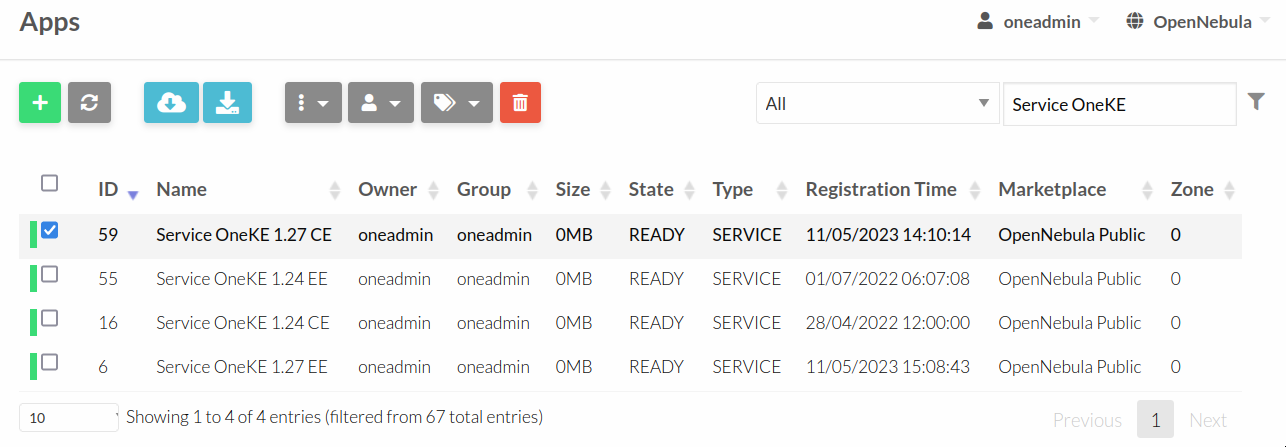
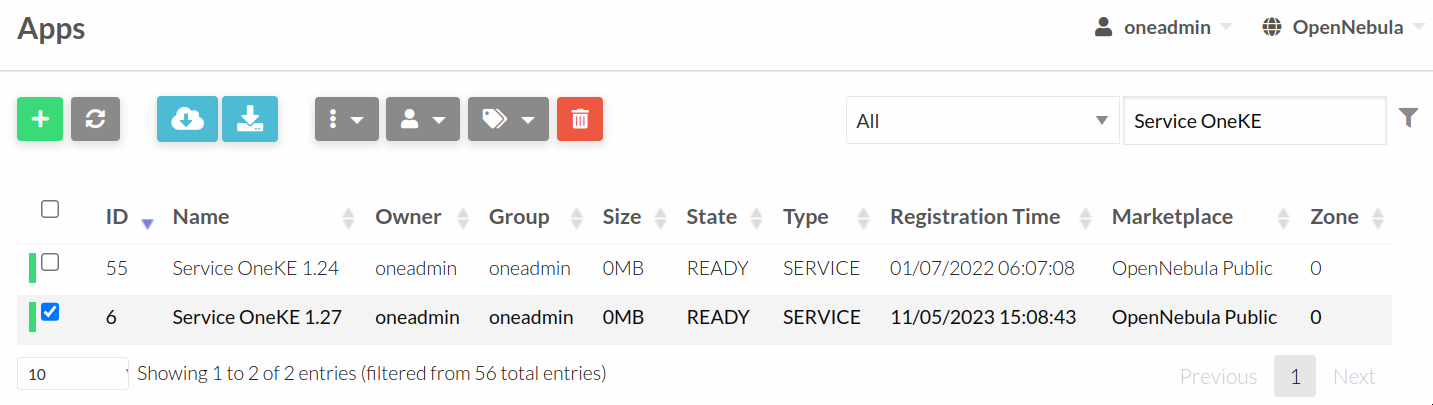
F OpenNebula/one#6253: Remove OneKE CE / Rename OneKE EE (#2640)

diff --git a/source/marketplace/appliances/oneke.rst b/source/marketplace/appliances/oneke.rst
@@ -16,25 +16,23 @@ Components
 .. table::
     :widths: 100 50 40
 
-    +-----------------------------+-------------------------------------------------------------------------------------------------------------------+
-    | Component                   | Version                                                                                                           |
-    +=============================+=====================================================================================+=============================+
-    | `Service OneKE 1.27 CE <https://marketplace.opennebula.io/appliance/6a7ba6b7-75ca-444d-bf86-50a7b6f0658e>`_       |                             |
-    +-----------------------------+-------------------------------------------------------------------------------------+                             |
-    | `Service OneKE 1.27 EE <https://marketplace.opennebula.io/appliance/7c82d610-73f1-47d1-a85a-d799e00c631e>`_       |                             |
-    +-----------------------------+-------------------------------------------------------------------------------------+                             |
-    | Ubuntu                      | 22.04 LTS                                                                           | |certified-kubernetes-logo| |
-    +-----------------------------+-------------------------------------------------------------------------------------+                             |
-    | Kubernetes/RKE2             | v1.27.1+rke2r1                                                                      |                             |
-    +-----------------------------+-------------------------------------------------------------------------------------+                             |
-    | Longhorn                    | 1.4.1                                                                               |                             |
-    +-----------------------------+-------------------------------------------------------------------------------------+                             |
-    | MetalLB                     | 0.13.9                                                                              |                             |
-    +-----------------------------+-------------------------------------------------------------------------------------+                             |
-    | Traefik                     | 2.10.0                                                                              |                             |
-    +-----------------------------+-------------------------------------------------------------------------------------+                             |
-    | Contextualization package   | 6.6.0                                                                               |                             |
-    +-----------------------------+-------------------------------------------------------------------------------------+-----------------------------+
+    +-----------------------------+----------------------------------------------------------------------------------------------------------+
+    | Component                   | Version                                                                                                  |
+    +=============================+============================================================================+=============================+
+    | `Service OneKE 1.27 <https://marketplace.opennebula.io/appliance/7c82d610-73f1-47d1-a85a-d799e00c631e>`_ |                             |
+    +-----------------------------+----------------------------------------------------------------------------+                             |
+    | Ubuntu                      | 22.04 LTS                                                                  | |certified-kubernetes-logo| |
+    +-----------------------------+----------------------------------------------------------------------------+                             |
+    | Kubernetes/RKE2             | v1.27.1+rke2r1                                                             |                             |
+    +-----------------------------+----------------------------------------------------------------------------+                             |
+    | Longhorn                    | 1.4.1                                                                      |                             |
+    +-----------------------------+----------------------------------------------------------------------------+                             |
+    | MetalLB                     | 0.13.9                                                                     |                             |
+    +-----------------------------+----------------------------------------------------------------------------+                             |
+    | Traefik                     | 2.10.0                                                                     |                             |
+    +-----------------------------+----------------------------------------------------------------------------+                             |
+    | Contextualization package   | 6.6.1                                                                      |                             |
+    +-----------------------------+----------------------------------------------------------------------------+-----------------------------+
 
 `Changelog <oneke_changelog.html>`_
 
@@ -53,26 +51,24 @@ Architecture Overview
 
 OneKE is available as a Virtual Appliance from the `OpenNebula Public MarketPlace <https://marketplace.opennebula.io/appliance>`_.
 
-OneKE comes in two flavors: **CE** (Community Edition) and **EE** (Enterprise Edition). Currently, the only difference between **CE** and **EE** versions is that **EE** version is a fully airgapped installation and can be installed in isolated VNETs.
-
-Let's take a closer look at the **OneKE 1.27 CE** MarketPlace app:
+Let's take a closer look at the **OneKE 1.27** MarketPlace app:
 
 .. prompt:: bash $ auto
 
-    $ onemarketapp list -f NAME~'OneKE 1.27 CE' -l NAME --no-header
-    OneKE 1.27 CE Storage
-    OneKE 1.27 CE OS disk
-    Service OneKE 1.27 CE
-    OneKE 1.27 CE
-    OneKE 1.27 CE VNF
-    OneKE 1.27 CE Storage disk
+    $ onemarketapp list -f NAME~'OneKE 1.27' -l NAME --no-header
+    OneKE 1.27 Storage
+    OneKE 1.27 OS disk
+    Service OneKE 1.27
+    OneKE 1.27
+    OneKE 1.27 VNF
+    OneKE 1.27 Storage disk
 
-A specific version of OneKE/CE consists of:
+A specific version of OneKE consists of:
 
-- A single OneFlow template ``Service OneKE .. CE`` used to instantiate a cluster.
-- VM templates ``OneKE .. CE VNF``, ``OneKE .. CE``, ``OneKE .. CE Storage`` used to instantiate VMs.
-- Disk images ``OneKE .. CE OS disk``, ``OneKE .. CE Storage disk`` \
-  (all Kubernetes nodes are cloned from the ``OneKE .. CE OS disk`` image).
+- A single OneFlow template ``Service OneKE ..`` used to instantiate a cluster.
+- VM templates ``OneKE .. VNF``, ``OneKE ..``, ``OneKE .. Storage`` used to instantiate VMs.
+- Disk images ``OneKE .. OS disk``, ``OneKE .. Storage disk`` \
+  (all Kubernetes nodes are cloned from the ``OneKE .. OS disk`` image).
 
 .. note::
 
@@ -101,7 +97,7 @@ You can check the roles defined in the service template by using the following c
 
 .. prompt:: bash $ auto
 
-    $ oneflow-template show -j 'Service OneKE 1.27 CE' | jq -r '.DOCUMENT.TEMPLATE.BODY.roles[].name'
+    $ oneflow-template show -j 'Service OneKE 1.27' | jq -r '.DOCUMENT.TEMPLATE.BODY.roles[].name'
     vnf
     master
     worker
@@ -182,10 +178,6 @@ Networking
 
 OneKE's OneFlow Service requires two networks: a **public** and a **private** VNET.
 These two VNETs can be, for example, just a simple `bridged networks <https://docs.opennebula.io/stable/open_cluster_deployment/networking_setup/bridged.html>`_.
-
-.. note::
-  - In case of the **CE** flavor the **public** VNET must have access to the public Internet to allow Kubernetes to download the in-cluster components, i.e. ``Longhorn``, ``Traefik``, ``MetalLB``, and other supplementary docker images when required.
-  - In case of the **CE** flavor the **private** VNET must have the ``DNS`` context parameter defined, for example ``1.1.1.1``, ``8.8.8.8``, or any other DNS server/proxy capable of resolving public domains.
 
 Let's assume the following:
 
@@ -471,11 +463,11 @@ In this section we focus on a deployment of OneKE using CLI commands. For an eas
 Importing the OneKE Virtual Appliance
 -------------------------------------
 
-Let's run the following command to import in the OpenNebula Cloud the whole set of resources corresponding to the OneKE Virtual Appliance (CE flavor). An image datastore must be specified for storing the Virtual Appliance images.
+Let's run the following command to import in the OpenNebula Cloud the whole set of resources corresponding to the OneKE Virtual Appliance. An image datastore must be specified for storing the Virtual Appliance images.
 
 .. prompt:: bash $ auto
 
-    $ onemarketapp export 'Service OneKE 1.27 CE' 'Service OneKE 1.27 CE' --datastore 1
+    $ onemarketapp export 'Service OneKE 1.27' 'Service OneKE 1.27' --datastore 1
     IMAGE
         ID: 202
         ID: 203
@@ -526,7 +518,7 @@ Once the OneKE Virtual Appliance has been imported, a new cluster can be created
         }
     }
     EOF
-    $ oneflow-template instantiate 'Service OneKE 1.27 CE' /tmp/OneKE-instantiate
+    $ oneflow-template instantiate 'Service OneKE 1.27' /tmp/OneKE-instantiate
     ID: 105
 
 K8s cluster creation can take some minutes. The cluster is available once the OneFlow service is in RUNNING state
@@ -665,7 +657,7 @@ Let's assume that ``epsilon`` and ``omicron`` are hosts we want to use to deploy
 .. prompt:: bash $ auto
 
     $ cat >/tmp/OneKE-vmgroup <<'EOF'
-    NAME = "Service OneKE 1.27 CE"
+    NAME = "Service OneKE 1.27"
     ROLE = [
         NAME         = "vnf",
         HOST_AFFINED = "epsilon,omicron",
@@ -697,7 +689,7 @@ Now, let's modify the OneKE OneFlow Service Template:
 
 .. prompt:: bash $ auto
 
-    $ oneflow-template show 'Service OneKE 1.27 CE' --json | >/tmp/OneKE-update.json jq -r --arg vmgroup 'Service OneKE 1.27 CE' -f /dev/fd/3 3<<'EOF'
+    $ oneflow-template show 'Service OneKE 1.27' --json | >/tmp/OneKE-update.json jq -r --arg vmgroup 'Service OneKE 1.27' -f /dev/fd/3 3<<'EOF'
     .DOCUMENT.TEMPLATE.BODY | del(.registration_time) | . += {
       roles: .roles | map(
         .vm_template_contents = "VMGROUP=[VMGROUP_NAME=\"\($vmgroup)\",ROLE=\"\(.name)\"]\n" + .vm_template_contents
@@ -710,7 +702,7 @@ Content of the update (``/tmp/OneKE-update.json``) will look like this:
 .. code-block:: json
 
     {
-      "name": "Service OneKE 1.27 CE",
+      "name": "Service OneKE 1.27",
       "deployment": "straight",
       "description": "",
       "roles": [
@@ -718,7 +710,7 @@ Content of the update (``/tmp/OneKE-update.json``) will look like this:
           "name": "vnf",
           "cardinality": 1,
           "min_vms": 1,
-          "vm_template_contents": "VMGROUP=[VMGROUP_NAME=\"Service OneKE 1.27 CE\",ROLE=\"vnf\"]\nNIC=[NAME=\"NIC0\",NETWORK_ID=\"$Public\"]\nNIC=[NAME=\"NIC1\",NETWORK_ID=\"$Private\"]\nONEAPP_VROUTER_ETH0_VIP0=\"$ONEAPP_VROUTER_ETH0_VIP0\"\nONEAPP_VROUTER_ETH1_VIP0=\"$ONEAPP_VROUTER_ETH1_VIP0\"\nONEAPP_VNF_NAT4_ENABLED=\"$ONEAPP_VNF_NAT4_ENABLED\"\nONEAPP_VNF_NAT4_INTERFACES_OUT=\"$ONEAPP_VNF_NAT4_INTERFACES_OUT\"\nONEAPP_VNF_ROUTER4_ENABLED=\"$ONEAPP_VNF_ROUTER4_ENABLED\"\nONEAPP_VNF_ROUTER4_INTERFACES=\"$ONEAPP_VNF_ROUTER4_INTERFACES\"\nONEAPP_VNF_HAPROXY_INTERFACES=\"$ONEAPP_VNF_HAPROXY_INTERFACES\"\nONEAPP_VNF_HAPROXY_REFRESH_RATE=\"$ONEAPP_VNF_HAPROXY_REFRESH_RATE\"\nONEAPP_VNF_HAPROXY_CONFIG=\"$ONEAPP_VNF_HAPROXY_CONFIG\"\nONEAPP_VNF_HAPROXY_LB0_IP=\"$ONEAPP_VROUTER_ETH0_VIP0\"\nONEAPP_VNF_HAPROXY_LB0_PORT=\"9345\"\nONEAPP_VNF_HAPROXY_LB1_IP=\"$ONEAPP_VROUTER_ETH0_VIP0\"\nONEAPP_VNF_HAPROXY_LB1_PORT=\"6443\"\nONEAPP_VNF_HAPROXY_LB2_IP=\"$ONEAPP_VROUTER_ETH0_VIP0\"\nONEAPP_VNF_HAPROXY_LB2_PORT=\"$ONEAPP_VNF_HAPROXY_LB2_PORT\"\nONEAPP_VNF_HAPROXY_LB3_IP=\"$ONEAPP_VROUTER_ETH0_VIP0\"\nONEAPP_VNF_HAPROXY_LB3_PORT=\"$ONEAPP_VNF_HAPROXY_LB3_PORT\"\nONEAPP_VNF_KEEPALIVED_VRID=\"$ONEAPP_VNF_KEEPALIVED_VRID\"\n",
+          "vm_template_contents": "VMGROUP=[VMGROUP_NAME=\"Service OneKE 1.27\",ROLE=\"vnf\"]\nNIC=[NAME=\"NIC0\",NETWORK_ID=\"$Public\"]\nNIC=[NAME=\"NIC1\",NETWORK_ID=\"$Private\"]\nONEAPP_VROUTER_ETH0_VIP0=\"$ONEAPP_VROUTER_ETH0_VIP0\"\nONEAPP_VROUTER_ETH1_VIP0=\"$ONEAPP_VROUTER_ETH1_VIP0\"\nONEAPP_VNF_NAT4_ENABLED=\"$ONEAPP_VNF_NAT4_ENABLED\"\nONEAPP_VNF_NAT4_INTERFACES_OUT=\"$ONEAPP_VNF_NAT4_INTERFACES_OUT\"\nONEAPP_VNF_ROUTER4_ENABLED=\"$ONEAPP_VNF_ROUTER4_ENABLED\"\nONEAPP_VNF_ROUTER4_INTERFACES=\"$ONEAPP_VNF_ROUTER4_INTERFACES\"\nONEAPP_VNF_HAPROXY_INTERFACES=\"$ONEAPP_VNF_HAPROXY_INTERFACES\"\nONEAPP_VNF_HAPROXY_REFRESH_RATE=\"$ONEAPP_VNF_HAPROXY_REFRESH_RATE\"\nONEAPP_VNF_HAPROXY_CONFIG=\"$ONEAPP_VNF_HAPROXY_CONFIG\"\nONEAPP_VNF_HAPROXY_LB0_IP=\"$ONEAPP_VROUTER_ETH0_VIP0\"\nONEAPP_VNF_HAPROXY_LB0_PORT=\"9345\"\nONEAPP_VNF_HAPROXY_LB1_IP=\"$ONEAPP_VROUTER_ETH0_VIP0\"\nONEAPP_VNF_HAPROXY_LB1_PORT=\"6443\"\nONEAPP_VNF_HAPROXY_LB2_IP=\"$ONEAPP_VROUTER_ETH0_VIP0\"\nONEAPP_VNF_HAPROXY_LB2_PORT=\"$ONEAPP_VNF_HAPROXY_LB2_PORT\"\nONEAPP_VNF_HAPROXY_LB3_IP=\"$ONEAPP_VROUTER_ETH0_VIP0\"\nONEAPP_VNF_HAPROXY_LB3_PORT=\"$ONEAPP_VNF_HAPROXY_LB3_PORT\"\nONEAPP_VNF_KEEPALIVED_VRID=\"$ONEAPP_VNF_KEEPALIVED_VRID\"\n",
           "elasticity_policies": [],
           "scheduled_policies": [],
           "vm_template": 255
@@ -727,7 +719,7 @@ Content of the update (``/tmp/OneKE-update.json``) will look like this:
           "name": "master",
           "cardinality": 1,
           "min_vms": 1,
-          "vm_template_contents": "VMGROUP=[VMGROUP_NAME=\"Service OneKE 1.27 CE\",ROLE=\"master\"]\nNIC=[NAME=\"NIC0\",NETWORK_ID=\"$Private\"]\nONEAPP_VROUTER_ETH0_VIP0=\"$ONEAPP_VROUTER_ETH0_VIP0\"\nONEAPP_VROUTER_ETH1_VIP0=\"$ONEAPP_VROUTER_ETH1_VIP0\"\nONEAPP_K8S_EXTRA_SANS=\"$ONEAPP_K8S_EXTRA_SANS\"\nONEAPP_K8S_LOADBALANCER_RANGE=\"$ONEAPP_K8S_LOADBALANCER_RANGE\"\nONEAPP_K8S_LOADBALANCER_CONFIG=\"$ONEAPP_K8S_LOADBALANCER_CONFIG\"\n",
+          "vm_template_contents": "VMGROUP=[VMGROUP_NAME=\"Service OneKE 1.27\",ROLE=\"master\"]\nNIC=[NAME=\"NIC0\",NETWORK_ID=\"$Private\"]\nONEAPP_VROUTER_ETH0_VIP0=\"$ONEAPP_VROUTER_ETH0_VIP0\"\nONEAPP_VROUTER_ETH1_VIP0=\"$ONEAPP_VROUTER_ETH1_VIP0\"\nONEAPP_K8S_EXTRA_SANS=\"$ONEAPP_K8S_EXTRA_SANS\"\nONEAPP_K8S_LOADBALANCER_RANGE=\"$ONEAPP_K8S_LOADBALANCER_RANGE\"\nONEAPP_K8S_LOADBALANCER_CONFIG=\"$ONEAPP_K8S_LOADBALANCER_CONFIG\"\n",
           "parents": [
             "vnf"
           ],
@@ -738,7 +730,7 @@ Content of the update (``/tmp/OneKE-update.json``) will look like this:
         {
           "name": "worker",
           "cardinality": 1,
-          "vm_template_contents": "VMGROUP=[VMGROUP_NAME=\"Service OneKE 1.27 CE\",ROLE=\"worker\"]\nNIC=[NAME=\"NIC0\",NETWORK_ID=\"$Private\"]\nONEAPP_VROUTER_ETH0_VIP0=\"$ONEAPP_VROUTER_ETH0_VIP0\"\nONEAPP_VROUTER_ETH1_VIP0=\"$ONEAPP_VROUTER_ETH1_VIP0\"\nONEAPP_VNF_HAPROXY_LB2_IP=\"$ONEAPP_VROUTER_ETH0_VIP0\"\nONEAPP_VNF_HAPROXY_LB2_PORT=\"$ONEAPP_VNF_HAPROXY_LB2_PORT\"\nONEAPP_VNF_HAPROXY_LB3_IP=\"$ONEAPP_VROUTER_ETH0_VIP0\"\nONEAPP_VNF_HAPROXY_LB3_PORT=\"$ONEAPP_VNF_HAPROXY_LB3_PORT\"\n",
+          "vm_template_contents": "VMGROUP=[VMGROUP_NAME=\"Service OneKE 1.27\",ROLE=\"worker\"]\nNIC=[NAME=\"NIC0\",NETWORK_ID=\"$Private\"]\nONEAPP_VROUTER_ETH0_VIP0=\"$ONEAPP_VROUTER_ETH0_VIP0\"\nONEAPP_VROUTER_ETH1_VIP0=\"$ONEAPP_VROUTER_ETH1_VIP0\"\nONEAPP_VNF_HAPROXY_LB2_IP=\"$ONEAPP_VROUTER_ETH0_VIP0\"\nONEAPP_VNF_HAPROXY_LB2_PORT=\"$ONEAPP_VNF_HAPROXY_LB2_PORT\"\nONEAPP_VNF_HAPROXY_LB3_IP=\"$ONEAPP_VROUTER_ETH0_VIP0\"\nONEAPP_VNF_HAPROXY_LB3_PORT=\"$ONEAPP_VNF_HAPROXY_LB3_PORT\"\n",
           "parents": [
             "vnf"
           ],
@@ -750,7 +742,7 @@ Content of the update (``/tmp/OneKE-update.json``) will look like this:
           "name": "storage",
           "cardinality": 1,
           "min_vms": 1,
-          "vm_template_contents": "VMGROUP=[VMGROUP_NAME=\"Service OneKE 1.27 CE\",ROLE=\"storage\"]\nNIC=[NAME=\"NIC0\",NETWORK_ID=\"$Private\"]\nONEAPP_VROUTER_ETH0_VIP0=\"$ONEAPP_VROUTER_ETH0_VIP0\"\nONEAPP_VROUTER_ETH1_VIP0=\"$ONEAPP_VROUTER_ETH1_VIP0\"\nONEAPP_STORAGE_DEVICE=\"$ONEAPP_STORAGE_DEVICE\"\nONEAPP_STORAGE_FILESYSTEM=\"$ONEAPP_STORAGE_FILESYSTEM\"\n",
+          "vm_template_contents": "VMGROUP=[VMGROUP_NAME=\"Service OneKE 1.27\",ROLE=\"storage\"]\nNIC=[NAME=\"NIC0\",NETWORK_ID=\"$Private\"]\nONEAPP_VROUTER_ETH0_VIP0=\"$ONEAPP_VROUTER_ETH0_VIP0\"\nONEAPP_VROUTER_ETH1_VIP0=\"$ONEAPP_VROUTER_ETH1_VIP0\"\nONEAPP_STORAGE_DEVICE=\"$ONEAPP_STORAGE_DEVICE\"\nONEAPP_STORAGE_FILESYSTEM=\"$ONEAPP_STORAGE_FILESYSTEM\"\n",
           "parents": [
             "vnf"
           ],
@@ -793,7 +785,7 @@ Next, let's update the template:
 
 .. prompt:: bash $ auto
 
-    $ oneflow-template update 'Service OneKE 1.27 CE' /tmp/OneKE-update.json
+    $ oneflow-template update 'Service OneKE 1.27' /tmp/OneKE-update.json
 
 
 Operations
@@ -1216,8 +1208,8 @@ four basic steps:
 
     .. prompt:: bash $ auto
 
-        $ oneflow scale 'Service OneKE 1.24 CE' worker 2
-        $ oneflow show 'Service OneKE 1.24 CE'
+        $ oneflow scale 'Service OneKE 1.24' worker 2
+        $ oneflow show 'Service OneKE 1.24'
         ...
         LOG MESSAGES
         06/30/22 21:32 [I] New state: DEPLOYING_NETS

diff --git a/source/quick_start/usage_basics/running_kubernetes_clusters.rst b/source/quick_start/usage_basics/running_kubernetes_clusters.rst
@@ -13,7 +13,7 @@ This guide assumes that you have deployed the OpenNebula front-end following the
 Step 1. Download the OneFlow Service from the Marketplace
 ~~~~~~~~~~~~~~~~~~~~~~~~~~~~~~~~~~~~~~~~~~~~~~~~~~~~~~~~~~
 
-Log in to Sunstone as oneadmin. Go to the ``Storage --> Apps`` tab and search for ``OneKE``. Select the ``Service OneKE 1.27 CE`` and click on the icon with the cloud and the down arrow inside (two positions to the right from the green ``+``).
+Log in to Sunstone as oneadmin. Go to the ``Storage --> Apps`` tab and search for ``OneKE``. Select the ``Service OneKE 1.27`` and click on the icon with the cloud and the down arrow inside (two positions to the right from the green ``+``).
 
 |kubernetes-qs-marketplace|
 
@@ -45,9 +45,9 @@ Step 3. Instantiate the Kubernetes Service
 
 .. note::
 
-    You may want to adjust the VM templates before you progress further - go to ``Templates --> VMs``, click on the ``Service OneKE 1.27 CE`` and blue button ``Update`` at the top.
+    You may want to adjust the VM templates before you progress further - go to ``Templates --> VMs``, click on the ``Service OneKE 1.27`` and blue button ``Update`` at the top.
 
-Proceed to the ``Templates --> Services`` tab and select the ``Service OneKE 1.27 CE`` Service Template. Click on ``+`` and then ``Instantiate``.
+Proceed to the ``Templates --> Services`` tab and select the ``Service OneKE 1.27`` Service Template. Click on ``+`` and then ``Instantiate``.
 
 A required step is clicking on ``Network`` and selecting the ``metal-aws-edge-cluster-public`` network for public network.
 

diff --git a/source/marketplace/appliances/oneke_changelog.rst b/source/marketplace/appliances/oneke_changelog.rst
@@ -3,7 +3,25 @@
 OneKE's Features / Changelog
 ============================
 
-OneKE 1.27.1-6.6.1-1.20230519 (Current)
+OneKE 1.27.1-6.6.1-1.20230702 (Current)
+---------------------------------------
+
+====================== ================
+Feature                Version
+====================== ================
+VNF + HAproxy          6.6.1-1.20230607
+RKE2 + Canal           v1.27.1+rke2r1
+Longhorn               1.4.1/1.4.1
+MetalLB                0.13.9/0.13.9
+Traefik                23.0.0/2.10.0
+One-Cleaner
+Multi-Master
+Airgapped install
+====================== ================
+
+* Removed CE flavor / Renamed EE flavor `#6253 <https://github.com/OpenNebula/one/issues/6253>`_.
+
+OneKE 1.27.1-6.6.1-1.20230519
 ---------------------------------------
 
 ====================== ================
